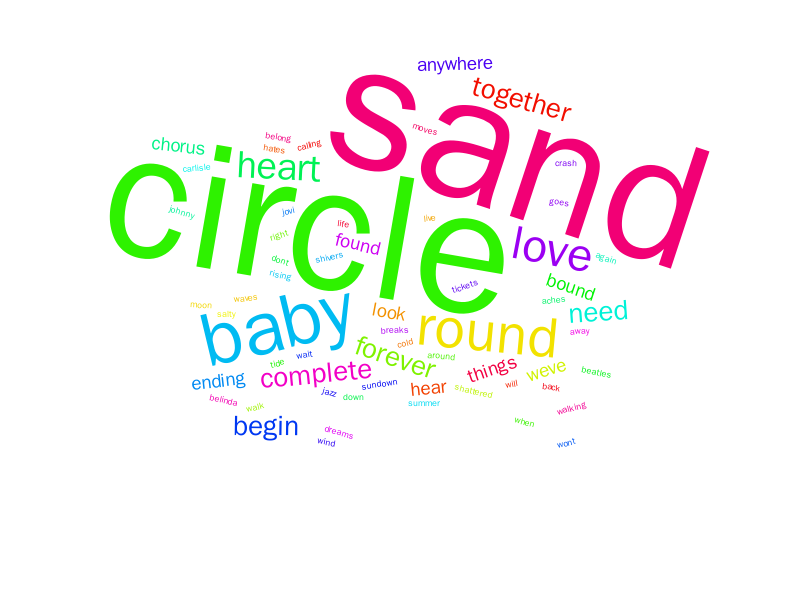
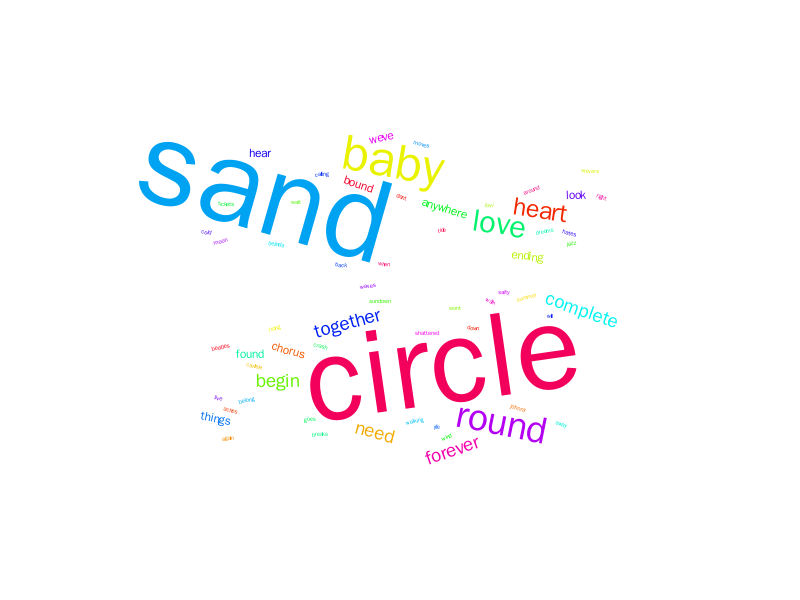
Update README file

Changed region(s): [[0.125, 0.09, 0.9062, 0.75], [0.5312, 0.75, 0.5625, 0.78], [0.5, 0.15, 0.5312, 0.18]]

diff --git a/README.md b/README.md
@@ -2,6 +2,7 @@
 
 Конструирование программного обеспечения. Контрольная работа №2.Синхронное межсервисное взаимодействие. 
 
+Архитектура
 
 Решение состоит из четырёх основных компонентов:
 
@@ -23,3 +24,171 @@
 4. Проект `AntiPlagiarism.Common`
     - Общие DTO для обмена данными между микросервисами
     - Утилиты (в данном случае одна `HashUtility` для вычисления SHA-256 хешей)
+
+
+
+Синхронное межсервисное взаимодействие
+
+Микросервисы взаимодействуют через HTTP-запросы:
+- от `API Gateway` к `File Storing Service`: загрузка и получение файлов
+- от `API Gateway к File Analysis Service`: запрос на анализ файлов и получение результатов 
+- от `File Analysis Service` к `File Storing Service`: получение содержимого файлов для анализа
+
+
+База данных
+
+Используется PostgreSQL с двумя отдельными базами данных:
+1. file_storage
+    - Схема `storage` 
+    - Таблица `files`: хранит метаданные загруженных файлов (ID, имя, местоположение)
+2. file_analysis
+    - Схема `analysis`
+    - Таблица `analysis_results`: результаты анализа текста
+    - Таблица `plagiarism_checks`: информация о проверке на плагиат, включая хеши файлов
+
+Инициализация базы данных производится автоматически при запуске контейнеров через скрипты в директории `init-db`
+
+
+Алгоритм обнаружения плагиата
+Система исользует подход с хешированием полного содержимого документа:
+1. Когда файл отправляется на анализ, система вычисляет SHA-256 хеш его содержимого
+2. Хеш сравнивается со всеми ранее сохранёнными хешами в базе данных
+3. Если обнаружено совпадение, файл помечается как плагиат и указывается ID оригинального документа
+4. Результат сохраняется в базе данных для будущих сравнений
+
+Это соответствует второму варианту изменения, которое предлагалось в пользовательский сценарий:
+"`Не игнорируем данное условие. Считаем файлы в системе не уникальны - при загрузке файла в систему ему каждый раз присваивается новый id и в рамках анализа файлов происходит проверка на антиплагиат (тогда разумнее передать ответственность за хранения хэша файла сервису аналитики). Тогда предлагаемые схемы не достоверны. Но в целом схемы это не требования, а ориентир - как можно реализовать. От них можно (и нужно) отступать, только следует указать это в отчете.`"
+
+Дополнительные возможности
+
+Генерация облака слов
+
+Система автоматически создаёт визуализацию частотности слов в документах (облака слов):
+ - Генерация выполняется через `QuickChart Word Cloud API`
+ - Настраиваемые параметры: размер, шрифт, цвета, масштабирование
+ - Исключение стоп-слов для более информативной визуализации
+ - Сохранение изображений в выделенном хранилище
+
+
+
+Анализ текста
+
+Для каждого документа рассчитываются:
+ - Количество абзацев
+ - Количество слов
+ - Количество символов 
+
+
+
+Docker volumes
+
+Системой используются три постоянных хранилища:
+- `postgres-data`: данные PostgreSQL
+- `file-storage-data`: загруженные файлы
+- `wordcloud-storage-data`: изображения облаков слов
+
+
+
+API Endpoints
+
+1. File Storing Service
+ - `POST /api/files/upload` - загрузка файла
+ - `GET /api/files/{id}` - Получение файла по ID
+
+2. File Analysis Service
+
+ - `POST /api/file-analysis/analyze/{fileId}` - Анализ файла и проверка на плагиат
+ - `GET /api/file-analysis/wordcloud/{location}` - Получение изображения облака слов
+
+3. API Gateway (проксирует все запросы к соответствующим сервисам)
+
+ - `POST /api/files/upload` -> File Storing Service
+ - `GET /api/files/{id}` -> File Storing Service
+ - `POST /api/file-analysis/analyze/{fileId}` -> File Analysis Service
+ - `GET /api/file-analysis/wordcloud/{location}` -> File Analysis Service
+
+
+Запуск:
+
+`docker-compose build` - сборка контейнеров
+`docker-compose up -d` - запуск контейнеров
+
+Примеры работы:
+
+1. Загрузка файла (файл ради удобства я располагал на одном уровне с решением `sln`):
+
+`curl -X POST -F "file=@test.txt" http://localhost:8080/api/files/upload`
+
+Пример ответа:
+
+`{"id":"4a59649c-a27c-4e25-a047-546fff275f6e","name":"test.txt","location":"07b96ec5-974c-46ca-9b14-7fcdbe782113-test.txt"}`
+
+
+2. Анализ файла:
+
+`curl -X POST -H "Content-Type: application/json" -d "{}" http://localhost:8080/api/file-analysis/analyze/4a59649c-a27c-4e25-a047-546fff275f6e`
+
+Пример ответа (отформатировано в несколько строк ради наглядности):
+
+`{"fileId":"4a59649c-a27c-4e25-a047-546fff275f6e",`
+` "paragraphCount":7,`
+`"wordCount":299,`
+`"characterCount":1534`
+`"wordCloudLocation":"681437bb-2be1-4533-ae12-7b55f82cfeb6-wordcloud-4a59649c-a27c-4e25-a047-546fff275f6e.png",`
+`"isPlagiarism":false,`
+`"originalFileId":null}`
+
+
+3. Получение облака слов:
+
+`curl -s -o wordcloudtest.png http://localhost:8080/api/file-analysis/wordcloud/681437bb-2be1-4533-ae12-7b55f82cfeb6-wordcloud-4a59649c-a27c-4e25-a047-546fff275f6e.png && echo "Файл успешно загружен"`
+
+Вывод в терминал:
+
+`Файл успешно загружен`
+
+(при этом в директорию с решением добавляется файл с названием `wordcloudtest.png`)
+
+
+4. Получение текстового файла:
+
+`curl -s -o downloaded_file.txt http://localhost:8080/api/files/4a59649c-a27c-4e25-a047-546fff275f6e && echo "Файл успешно загружен"`
+
+
+Вывод в терминал:
+
+`Файл успешно загружен`
+
+(при этом в директорию с решением добавляется файл с названием downloaded_file.txt)
+
+5. Проверка на антиплагиат (обнаружение плагиата)
+
+Для начала я загрузил просто скачанный в предыдущем действии файл, но я опустил этот шаг
+
+`curl -X POST -H "Content-Type: application/json" -d "{}" http://localhost:8080/api/file-analysis/analyze/39b0d3bb-19aa-4929-aa07-f9dd6d55fed9`
+
+
+Ответ в терминале:
+
+`{"fileId":"39b0d3bb-19aa-4929-aa07-f9dd6d55fed9",`
+`"paragraphCount":7,`
+`"wordCount":299,`
+`"characterCount":1534,`
+`"wordCloudLocation":"22ee59a4-5b44-4bd2-906e-145aea37f574-wordcloud-39b0d3bb-19aa-4929-aa07-f9dd6d55fed9.png",`
+`"isPlagiarism":true,`
+`"originalFileId":"4a59649c-a27c-4e25-a047-546fff275f6e"}`
+
+Плагиат зарегистрирован!
+
+Также можно увидеть API Эндпоинты и сделать запросы с помощью Swagger UI. Открывается по адресу `http://localhost:8080/swagger/index.html`
+
+
+
+
+
+
+
+
+
+
+
